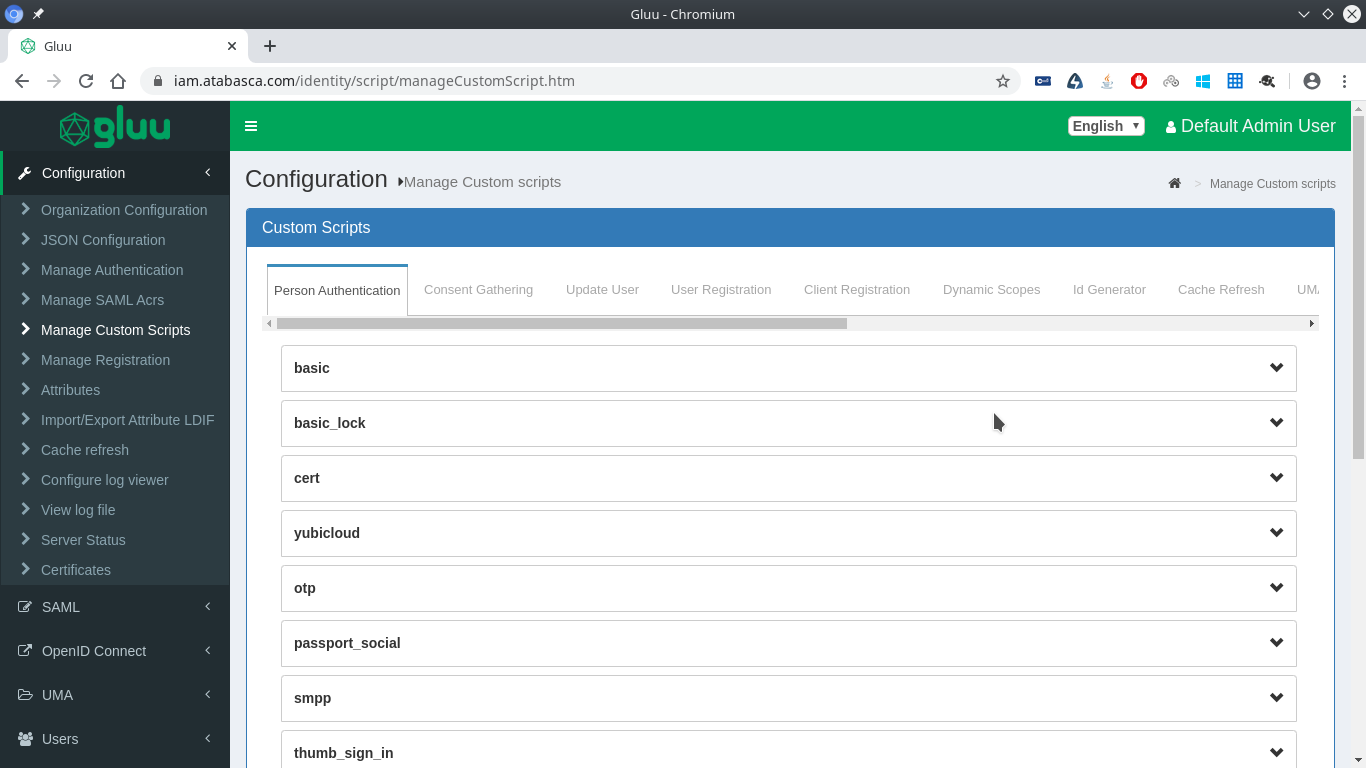
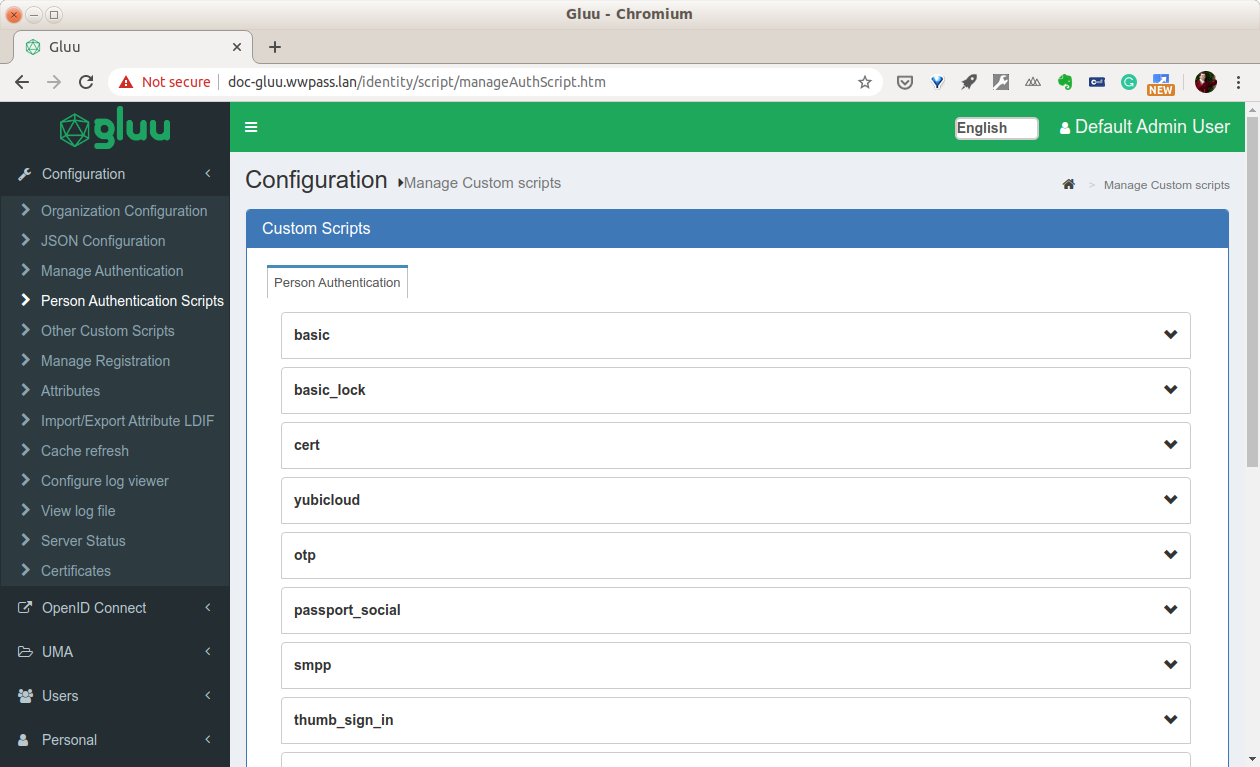
Update installation instructions for Gluu 4.2

diff --git a/INSTALLATION.md b/INSTALLATION.md
@@ -25,11 +25,10 @@ federation.
 
 This tutorial assumes that you have the following:
 
-- Gluu Server 4.1.1 installed on Ubuntu Server 18.04 or 16.04;
+- Gluu Server 4.2 installed on Ubuntu Server 20.04 or 18.04;
 - An administrative account on this Ubuntu Server;
 - An application certificate and private key for WWPass authentication;
 - WWPass Key app or hardware token;
-- Basic knowledge of HTML and CSS;
 
 ### Obtain Application Certificate and Private Key From WWPass
 
@@ -135,44 +134,6 @@ To exit a Gluu container use
 exit
 ```
 
-### Update Gluu to 4.1.1
-
-If you use 4.1.0 version of Gluu Server, you should update it to 4.1.1
-(the latest version available at the time this document was created).
-Gluu Server versions prior to 4.1.1 contain a few bugs that affect
-integrations with many SAML service providers.
-
-First download updated files:
-
-- https://ox.gluu.org/maven/org/gluu/oxtrust-server/4.1.1.Final/oxtrust-server-4.1.1.Final.war
-- https://ox.gluu.org/maven/org/gluu/oxshibbolethIdp/4.1.1.Final/oxshibbolethIdp-4.1.1.Final.war
-- https://ox.gluu.org/maven/org/gluu/oxauth-server/4.1.1.Final/oxauth-server-4.1.1.Final.war
-
-Stop Gluu services:
-
-```console
-sudo /sbin/gluu-serverd stop
-```
-
-Backup existing Gluu Server files and install new files:
-
-```console
-sudo mv /opt/gluu-server/opt/gluu/jetty/identity/webapps/identity.war identity.war-4.1.0
-sudo cp oxtrust-server-4.1.1.Final.war /opt/gluu-server/opt/gluu/jetty/identity/webapps/identity.war
-
-sudo mv /opt/gluu-server/opt/gluu/jetty/idp/webapps/idp.war idp.war-4.1.0
-sudo cp oxshibbolethIdp-4.1.1.Final.war /opt/gluu-server/opt/gluu/jetty/idp/webapps/idp.war
-
-sudo mv /opt/gluu-server/opt/gluu/jetty/oxauth/webapps/oxauth.war oxauth.war-4.1.0
-sudo cp oxauth-server-4.1.1.Final.war /opt/gluu-server/opt/gluu/jetty/oxauth/webapps/oxauth.war
-```
-
-Start Gluu Server:
-
-```console
-sudo /sbin/gluu-serverd start
-```
-
 ## Prepare WWPass Integration Files
 
 Download WWPass integration files from GitHub
@@ -206,7 +167,7 @@ sudo cp -rL oxtrust/* /opt/gluu-server/opt/gluu/jetty/identity/custom/
 ```
 
 Files in `idp` directory should be deployed to
-`/opt/gluu-server/opt/gluu/jetty/idp/custom/`
+`/opt/gluu-server/opt/gluu/jetty/idp/custom/` if you have installed Shibboleth IDP
 
 ```console
 sudo cp -rL idp/* /opt/gluu-server/opt/gluu/jetty/idp/custom/
@@ -267,7 +228,7 @@ chown root:gluu /opt/gluu/python/libs/wwpass.py
 Use your favorite console text editor to change Apache configuration
 
 ```console
-[vi|nano|joe|...] /opt/gluu-server/etc/apache2/sites-available/https_gluu.conf
+[vi|nano|joe|...] /etc/apache2/sites-available/https_gluu.conf
 ```
 
 Scroll down the file until you find the last `<Location>...</Location>` tag and
@@ -307,7 +268,7 @@ If your setup is correct, you will see output like this:
 
 ## Configure Gluu Server
 
-Log in as administrator and go to "Configuration -> Manage Custom scripts".
+Log in as administrator and go to "Configuration -> Person Authentication Scripts".
 ![Person Authentication](./images/custom_script1.png)
 
 In `Person Authentication` tab, click `Add custom script configuration` at the bottom of the page
@@ -358,7 +319,7 @@ Go to `Configuration -> JSON configuration -> OxAuth Configuration`, find
 `sessionIdUnauthenticatedUnusedLifetime` setting and set it to `600` or more.
 ![sessionIdUnauthenticatedUnusedLifetime](./images/sessionIdUnauthenticatedUnusedLifetime.png)
 
-Click `Update` to save settings.
+Click `Save Configuration` to save settings.
 
 ### Set up Authentication Method
 
@@ -387,7 +348,7 @@ email or username and password.
 
 If something does not work as expected, return to your main browser and revert
 `Configuration -> Manage Authentication -> Default Authentication Method` back
-to `auth_ldap_server` while you troubleshoot the problem.
+to `simple_password_auth` while you troubleshoot the problem.
 
 ## Troubleshooting
 

diff --git a/GLUU_SITE_DOCS.md b/GLUU_SITE_DOCS.md
@@ -64,7 +64,7 @@ sudo cp -rL oxtrust/* /opt/gluu-server/opt/gluu/jetty/identity/custom/
 ```
 
 Files in `idp` directory should be deployed to
-`/opt/gluu-server/opt/gluu/jetty/idp/custom/`
+`/opt/gluu-server/opt/gluu/jetty/idp/custom/` if you have installed Shibboleth IDP
 
 ```console
 sudo cp -rL idp/* /opt/gluu-server/opt/gluu/jetty/idp/custom/
@@ -125,7 +125,7 @@ chown root:gluu /opt/gluu/python/libs/wwpass.py
 Use your favorite console text editor to change Apache configuration
 
 ```console
-[vi|nano|joe|...] /opt/gluu-server/etc/apache2/sites-available/https_gluu.conf
+[vi|nano|joe|...] /etc/apache2/sites-available/https_gluu.conf
 ```
 
 Scroll down the file until you find the last `<Location>...</Location>` tag and
@@ -165,7 +165,7 @@ If your setup is correct, you will see output like this:
 
 ## Configure Gluu Server
 
-Log in as administrator and go to "Configuration -> Manage Custom scripts".
+Log in as administrator and go to "Configuration -> Person Authentication Scripts".
 ![Person Authentication](./images/custom_script1.png)
 
 In `Person Authentication` tab, click `Add custom script configuration` at the bottom of the page
@@ -216,7 +216,7 @@ Go to `Configuration -> JSON configuration -> OxAuth Configuration`, find
 `sessionIdUnauthenticatedUnusedLifetime` setting and set it to `600` or more.
 ![sessionIdUnauthenticatedUnusedLifetime](./images/sessionIdUnauthenticatedUnusedLifetime.png)
 
-Click `Update` to save settings.
+Click `Save Configuration` to save settings.
 
 ### Set up Authentication Method
 
@@ -245,7 +245,7 @@ email or username and password.
 
 If something does not work as expected, return to your main browser and revert
 `Configuration -> Manage Authentication -> Default Authentication Method` back
-to `auth_ldap_server` while you troubleshoot the problem.
+to `simple_password_auth` while you troubleshoot the problem.
 
 ## Troubleshooting
 
